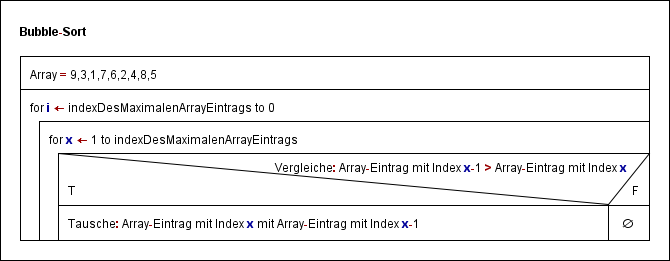
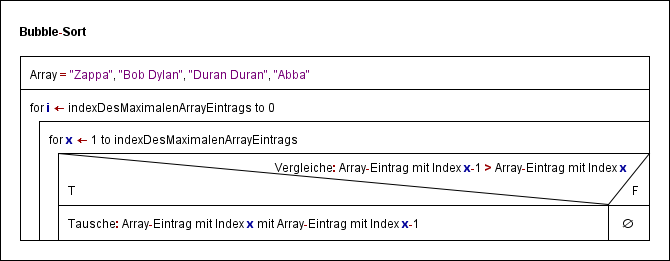
Updated diagrams and readme

Changed region(s): [[0.0896, 0.2452, 0.4776, 0.3065]]

diff --git a/README.md b/README.md
@@ -16,11 +16,13 @@ Für die Erstellung von Nassi-Shneiderman-Diagrammen wurde die Software "[Struct
 
 Als Algorithmus kommt in diesem einfachen Fall ein einfacher Bubble-Sort zum Einsatz. Dieser hat den Vorteil der leichten Verständlichkeit - dem gegenüber steht der Nachteil der vergleichsweisen schlechten Performance.
 
-In der ersten Iteration des Lösungsansatzes wird zunächst - noch von der Ziellösung abweichend - lediglich mit einem Zahlen-Array gearbeitet und damit die Grundlage für die alphabetische Sortierung eines Arrays mit Zeichenketten (Interpreten) geschaffen.
+In der ersten Iteration des Lösungsansatzes habe ich zunächst - noch von der Ziellösung abweichend - die einfachste Lösung gewählt und mit einem Zahlen-Array gearbeitet.
 
-Die zweite Iteration verfolgt dann schließlich den finalen Ansatz. Dieser ist in ANSI_C etwas komplexer umzusetzen und auch in der Darstellung als PAP/Struktogramm aufwändiger, da nicht alleine eine einfache Liste mit Integer-Werten zu betrachten ist, sondern komplexe Zeichenketten mit einer verglichen werden müssen.
+Die zweite Iteration verfolgt dann im kleinen Maßstab den finalen Ansatz. Dieser ist in ANSI-C geringfügig aufwändiger umzusetzen.
 
-## Iteration 1
+Die dritte Iteration erfüllt schließlich die Aufgabe 100 Interpreten, die in willkürlicher Reihenfolge vorliegen, alphabetisch aufsteigend zu sortieren. Dazu wurde Iteration 2 um eine Methode zum einlesen der ersten 100 Zeilen einer Textdatei erweitert und eine solche Datei mit 100 Interpreten hinzugefügt.
+
+## Diagramme
 
 Nassi-Shneiderman-Diagramm:
 
@@ -29,7 +31,3 @@ Nassi-Shneiderman-Diagramm:
 PAP
 
 ![Bubble-Sort](https://github.com/napolitano/fom-excercises-bubble-sort/blob/main/bubble-sort-pap.png)
-
-## Iteration 2
-
-...
